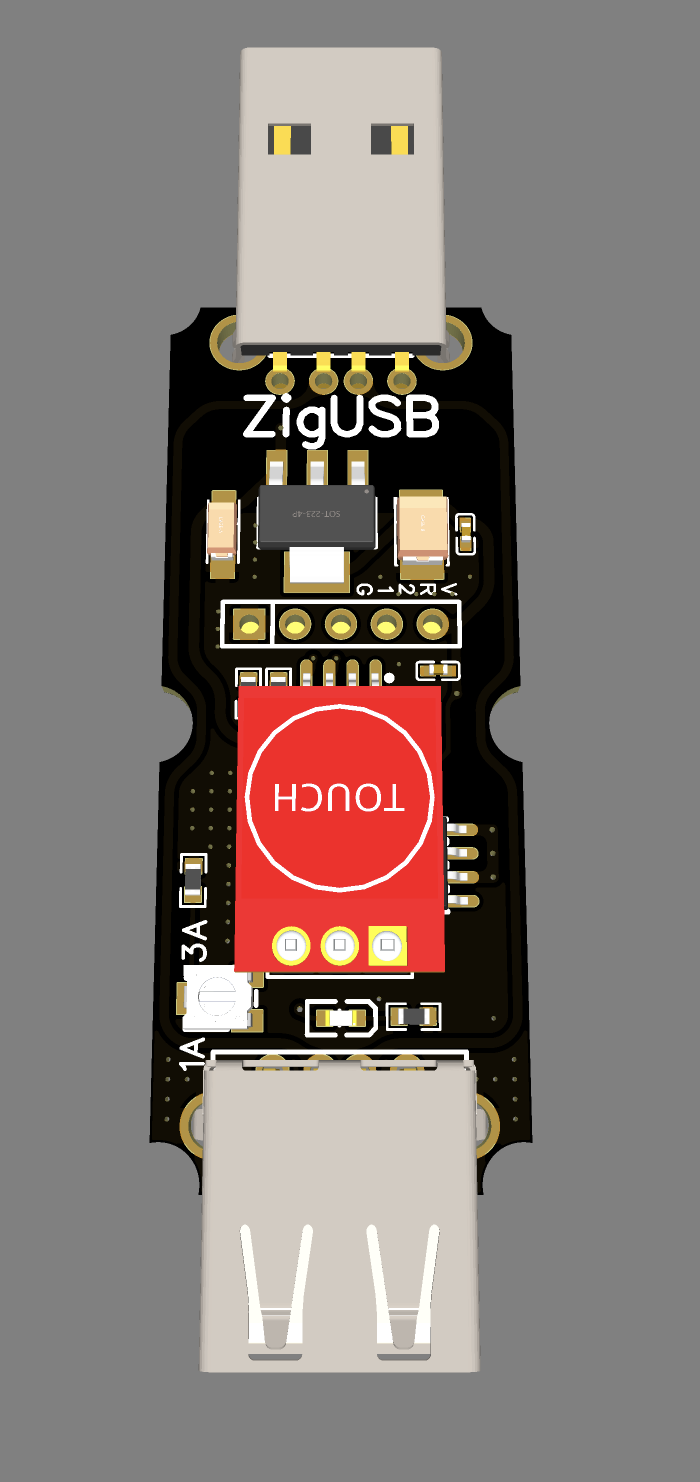
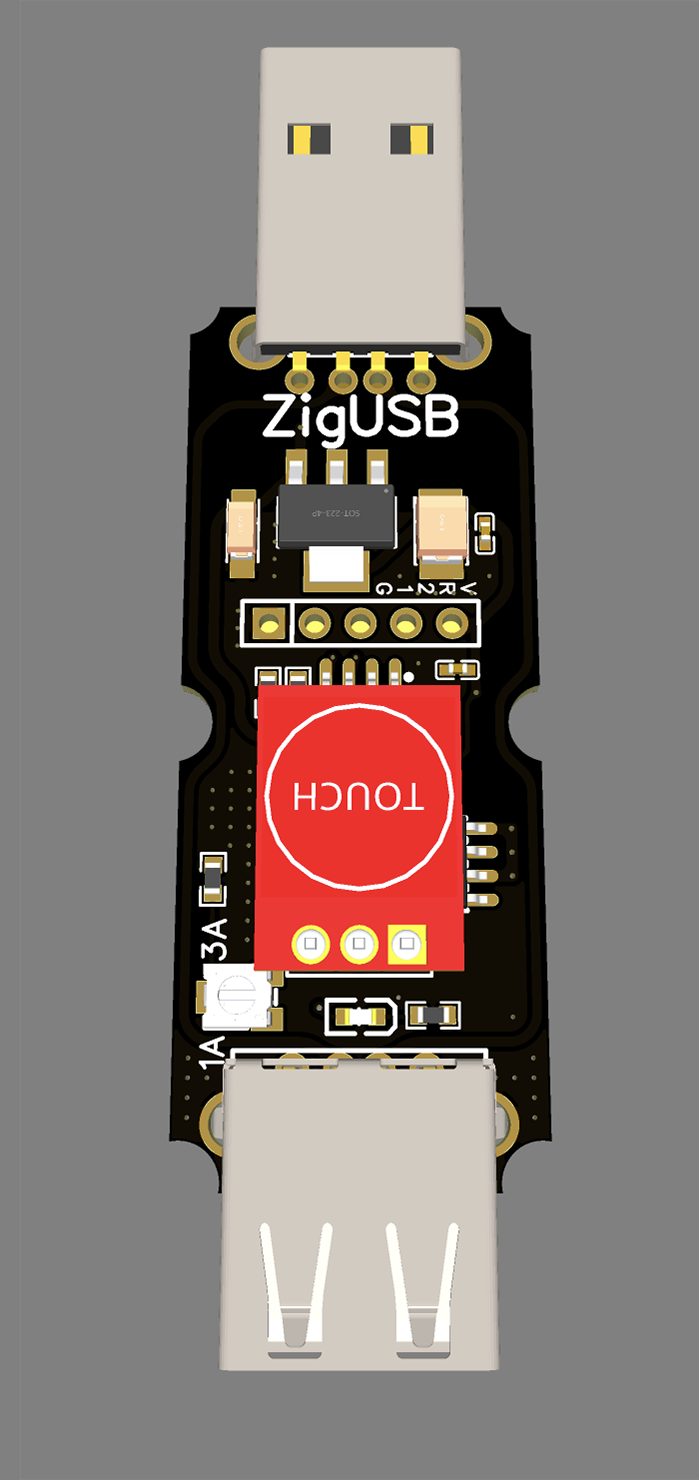
images fixes

Changed region(s): [[0.2103, 0.0311, 0.8112, 0.9324]]

diff --git a/README.md b/README.md
@@ -42,11 +42,8 @@ Possibilities:
 </td>
 </tr>
 <tr>
-<td width="50%">
+<td width="75%">
 <img src="https://raw.githubusercontent.com/xyzroe/ZigUSB/main/images/top_pcb_touch.jpeg">
-</td>
-<td>
-<img src="https://raw.githubusercontent.com/xyzroe/ZigUSB/main/images/back_pcb_touch.jpeg">
 </td>
 </tr>
 </table>
